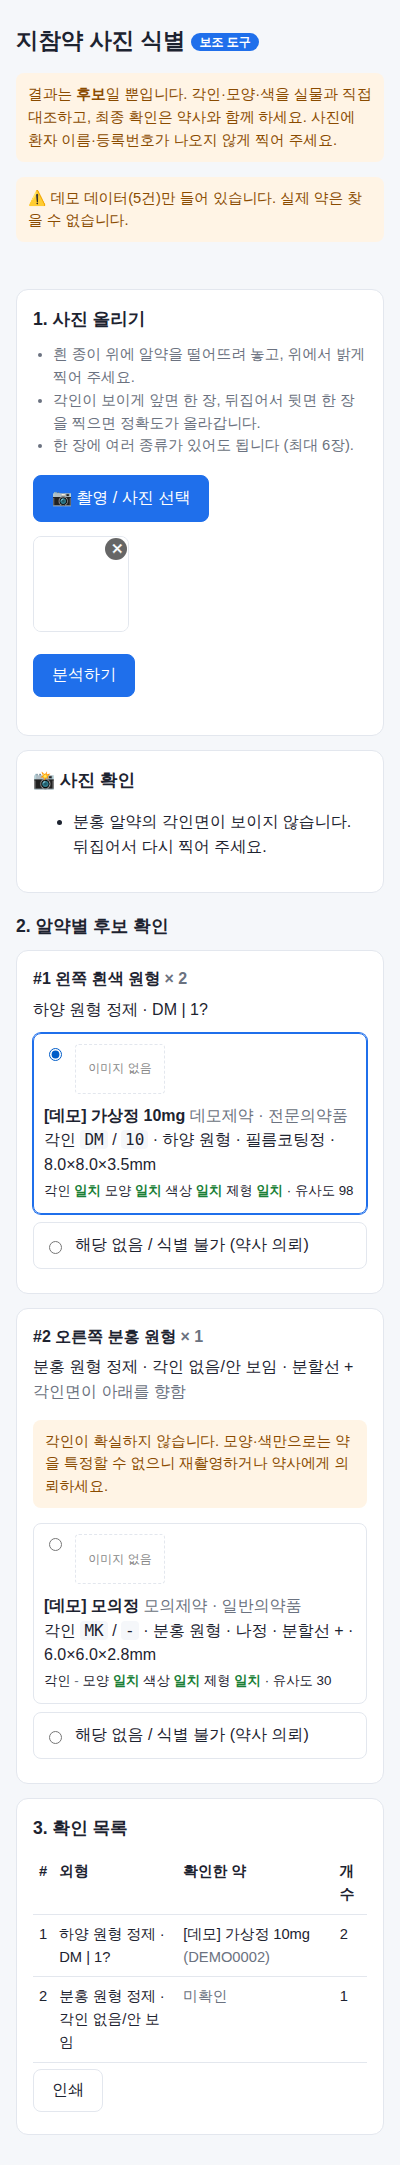
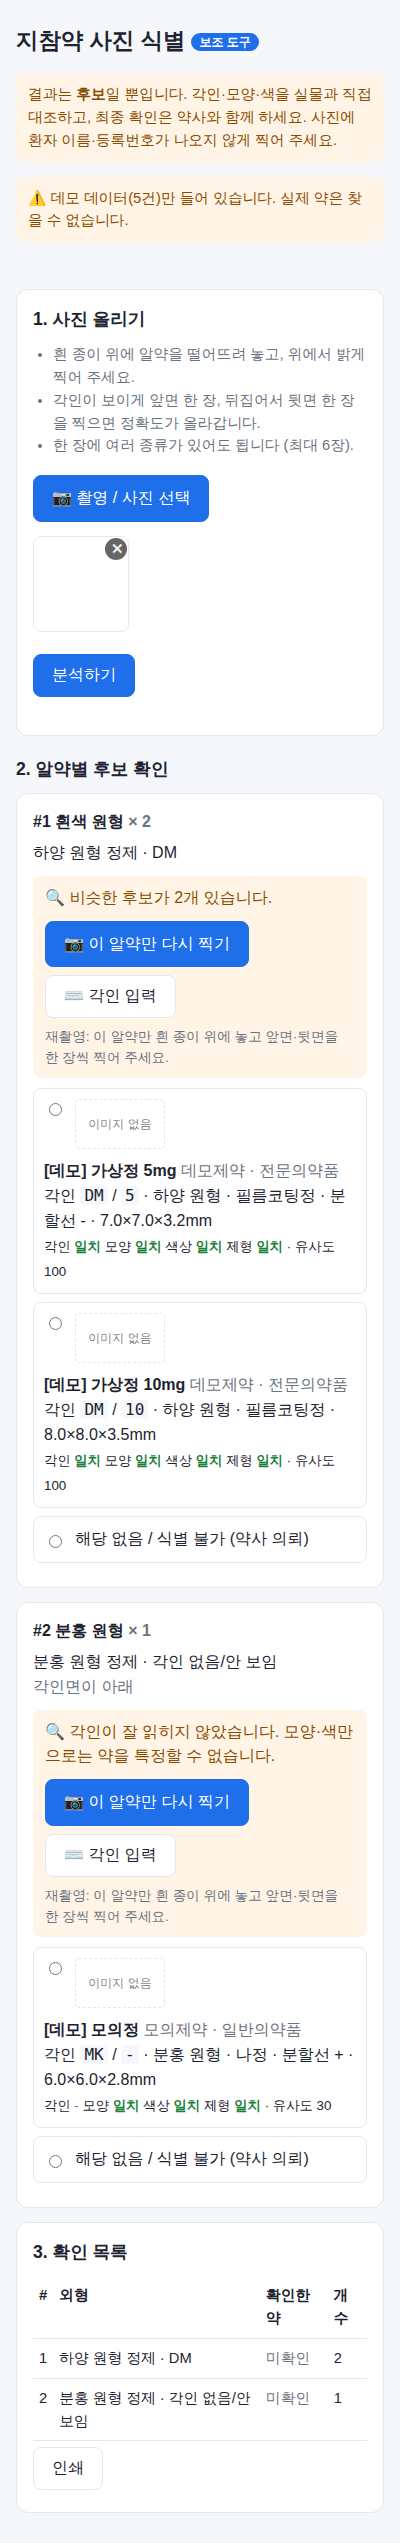
Add per-pill retake and manual imprint search when photo result is unclear
Photo analysis stays the primary flow. A pill card offers retake (re-analyzes
only that pill, all photos treated as one pill) or manual imprint entry
(local DB search, pre-filled with the photo reading) when the imprint was
unreadable, no candidate matched, several candidates score closely, or the
imprint match is partial.

Claude-Session: https://claude.ai/code/session_012expLt7n2L2Ga9dbMiT5Cc

Changed region(s): [[0.03, 0.0, 0.93, 0.9903], [0.9, 0.4642, 0.93, 0.557], [0.84, 0.8665, 0.87, 0.9284]]

diff --git a/pill-identifier/static/app.js b/pill-identifier/static/app.js
@@ -8,11 +8,13 @@ const summaryEl = document.getElementById("summary");
 
 let files = [];
 let pills = [];
+let options = { shapes: [], colors: [], forms: [] };
 
 const esc = (s) => String(s ?? "").replace(/[&<>"']/g, (c) =>
   ({ "&": "&amp;", "<": "&lt;", ">": "&gt;", '"': "&quot;", "'": "&#39;" }[c]));
 
 fetch("/api/status").then((r) => r.json()).then((s) => {
+  options = s;
   const el = document.getElementById("db-status");
   if (s.total === 0) {
     el.innerHTML = "⚠ 낱알식별 DB가 비어 있습니다. <code>scripts/sync_mfds.py</code>로 식약처 데이터를 받아 주세요.";
@@ -99,47 +101,148 @@ function render(data) {
     resultsEl.innerHTML = '<section class="card"><p>사진에서 알약을 찾지 못했습니다.</p></section>';
     return;
   }
-  resultsEl.innerHTML = '<h2 class="section-title">2. 알약별 후보 확인</h2>' + pills.map((p, i) => {
-    const lowConf = !p.imprint_front && !p.imprint_back || ["낮음", "없음"].includes(p.imprint_confidence);
-    const cands = p.candidates.map((c) => `
-      <label class="cand">
-        <input type="radio" name="pill${i}" value="${esc(c.item_seq)}">
-        ${c.item_image ? `<img src="${esc(c.item_image)}" alt="" loading="lazy">` : '<div class="noimg">이미지 없음</div>'}
-        <div>
-          <b>${esc(c.item_name)}</b> <span class="muted">${esc(c.entp_name)} · ${esc(c.etc_otc_name)}</span><br>
-          각인 <code>${esc(c.print_front) || "-"}</code> / <code>${esc(c.print_back) || "-"}</code>
-          · ${esc(c.color)} ${esc(c.drug_shape)} · ${esc(c.form_code_name)}
-          ${c.line ? `· 분할선 ${esc(c.line)}` : ""} ${c.size ? `· ${esc(c.size)}mm` : ""}<br>
-          <small>각인 ${checkBadge(c.checks["각인"])} 모양 ${checkBadge(c.checks["모양"])}
-          색상 ${checkBadge(c.checks["색상"])} 제형 ${checkBadge(c.checks["제형"])}
-          · 유사도 ${c.score}</small>
-        </div>
-      </label>`).join("");
-    return `
-      <section class="card pill">
-        <h3>#${i + 1} ${esc(p.label)} <span class="muted">× ${p.count}</span></h3>
-        <p class="features">
-          ${esc(describe(p))}
-          ${p.score_line !== "없음" && p.score_line !== "불명" ? ` · 분할선 ${esc(p.score_line)}` : ""}
-          ${p.mark_description ? ` · 마크: ${esc(p.mark_description)}` : ""}
-          ${p.package_text ? `<br>포장 인쇄: <b>${esc(p.package_text)}</b>` : ""}
-          ${p.notes ? `<br><span class="muted">${esc(p.notes)}</span>` : ""}
-        </p>
-        ${lowConf ? '<p class="warn">각인이 확실하지 않습니다. 모양·색만으로는 약을 특정할 수 없으니 재촬영하거나 약사에게 의뢰하세요.</p>' : ""}
-        ${cands || '<p class="muted">DB에서 일치하는 후보가 없습니다.</p>'}
-        <label class="cand none"><input type="radio" name="pill${i}" value="__none">해당 없음 / 식별 불가 (약사 의뢰)</label>
-      </section>`;
-  }).join("");
-
-  resultsEl.querySelectorAll("input[type=radio]").forEach((el) =>
-    el.addEventListener("change", () => {
-      const i = Number(el.name.slice(4));
-      pills[i].chosen = el.value === "__none" ? null : pills[i].candidates.find((c) => c.item_seq === el.value);
-      pills[i].decided = true;
-      renderSummary();
-    }));
+  resultsEl.innerHTML = '<h2 class="section-title">2. 알약별 후보 확인</h2>' +
+    pills.map((_, i) => `<section class="card pill" id="pill-${i}"></section>`).join("");
+  pills.forEach((_, i) => renderPill(i));
   renderSummary();
 }
+
+// 사진 판독만으로 확정하기 어려운 경우 → 재촬영/각인 입력을 권한다.
+function helpReason(p) {
+  const c = p.candidates;
+  if (p.source !== "manual" && ((!p.imprint_front && !p.imprint_back) || ["낮음", "없음"].includes(p.imprint_confidence)))
+    return "각인이 잘 읽히지 않았습니다. 모양·색만으로는 약을 특정할 수 없습니다.";
+  if (!c.length) return "일치하는 후보를 찾지 못했습니다.";
+  if (c.length >= 2 && c[1].score >= c[0].score - 10) return `비슷한 후보가 ${c.filter((x) => x.score >= c[0].score - 10).length}개 있습니다.`;
+  if (c[0].checks["각인"] === "partial") return "각인 일부가 불확실합니다.";
+  return null;
+}
+
+const opts = (list, sel) => list.map((v) => `<option${v === sel ? " selected" : ""}>${esc(v)}</option>`).join("");
+
+function renderPill(i) {
+  const p = pills[i];
+  const el = document.getElementById(`pill-${i}`);
+  const reason = helpReason(p);
+  const cands = p.candidates.map((c) => `
+    <label class="cand">
+      <input type="radio" name="pill${i}" value="${esc(c.item_seq)}"${p.chosen?.item_seq === c.item_seq ? " checked" : ""}>
+      ${c.item_image ? `<img src="${esc(c.item_image)}" alt="" loading="lazy">` : '<div class="noimg">이미지 없음</div>'}
+      <div>
+        <b>${esc(c.item_name)}</b> <span class="muted">${esc(c.entp_name)} · ${esc(c.etc_otc_name)}</span><br>
+        각인 <code>${esc(c.print_front) || "-"}</code> / <code>${esc(c.print_back) || "-"}</code>
+        · ${esc(c.color)} ${esc(c.drug_shape)} · ${esc(c.form_code_name)}
+        ${c.line ? `· 분할선 ${esc(c.line)}` : ""} ${c.size ? `· ${esc(c.size)}mm` : ""}<br>
+        <small>각인 ${checkBadge(c.checks["각인"])} 모양 ${checkBadge(c.checks["모양"])}
+        색상 ${checkBadge(c.checks["색상"])} 제형 ${checkBadge(c.checks["제형"])}
+        · 유사도 ${c.score}</small>
+      </div>
+    </label>`).join("");
+
+  el.innerHTML = `
+    <h3>#${i + 1} ${esc(p.label)} <span class="muted">× ${p.count}</span>
+      ${p.source === "manual" ? '<span class="src">각인 입력</span>' : p.source === "retake" ? '<span class="src">재촬영</span>' : ""}</h3>
+    <p class="features">
+      ${esc(describe(p))}
+      ${p.score_line && p.score_line !== "없음" && p.score_line !== "불명" ? ` · 분할선 ${esc(p.score_line)}` : ""}
+      ${p.mark_description ? ` · 마크: ${esc(p.mark_description)}` : ""}
+      ${p.package_text ? `<br>포장 인쇄: <b>${esc(p.package_text)}</b>` : ""}
+      ${p.notes ? `<br><span class="muted">${esc(p.notes)}</span>` : ""}
+    </p>
+    ${reason ? `
+      <div class="help">
+        <p>🔍 ${esc(reason)}</p>
+        <div class="help-actions">
+          <label class="btn primary">📷 이 알약만 다시 찍기
+            <input type="file" accept="image/*" capture="environment" multiple hidden data-act="retake"></label>
+          <button class="btn" data-act="manual">⌨ 각인 입력</button>
+        </div>
+        <p class="muted small">재촬영: 이 알약만 흰 종이 위에 놓고 앞면·뒷면을 한 장씩 찍어 주세요.</p>
+      </div>` : ""}
+    <p class="busy muted hidden"></p>
+    ${cands || '<p class="muted">DB에서 일치하는 후보가 없습니다.</p>'}
+    <label class="cand none"><input type="radio" name="pill${i}" value="__none"${p.decided && !p.chosen ? " checked" : ""}>해당 없음 / 식별 불가 (약사 의뢰)</label>
+    ${reason ? "" : `
+      <p class="small muted alt">결과가 실물과 다르면:
+        <label class="link">다시 찍기<input type="file" accept="image/*" capture="environment" multiple hidden data-act="retake"></label>
+        · <button class="link" data-act="manual">각인 입력</button></p>`}
+    <form class="manual hidden" data-act="search">
+      <p class="small muted">실물에서 읽은 각인을 입력하세요. 사진 판독 값이 미리 채워져 있습니다.</p>
+      <div class="grid">
+        <label>앞면 각인<input name="imprint_front" value="${esc(p.imprint_front)}" autocapitalize="characters"></label>
+        <label>뒷면 각인<input name="imprint_back" value="${esc(p.imprint_back)}" autocapitalize="characters"></label>
+        <label>모양<select name="shape">${opts(options.shapes, p.shape)}</select></label>
+        <label>색상<select name="color_primary">${opts(options.colors, p.color_primary)}</select></label>
+        <label>제형<select name="form">${opts(options.forms, p.form)}</select></label>
+      </div>
+      <button class="btn primary">검색</button>
+    </form>`;
+}
+
+function setBusy(i, text) {
+  const b = document.querySelector(`#pill-${i} .busy`);
+  b.textContent = text || "";
+  b.classList.toggle("hidden", !text);
+}
+
+resultsEl.addEventListener("change", async (e) => {
+  const card = e.target.closest(".pill");
+  if (!card) return;
+  const i = Number(card.id.slice(5));
+  if (e.target.type === "radio") {
+    pills[i].chosen = e.target.value === "__none" ? null : pills[i].candidates.find((c) => c.item_seq === e.target.value);
+    pills[i].decided = true;
+    renderSummary();
+  } else if (e.target.dataset.act === "retake" && e.target.files.length) {
+    const picked = [...e.target.files].slice(0, 4);
+    setBusy(i, "다시 분석 중… (20~60초)");
+    try {
+      const form = new FormData();
+      for (const [k, f] of picked.entries()) form.append("images", await shrink(f), `retake${k + 1}.jpg`);
+      const r = await fetch("/api/identify?single=true", { method: "POST", body: form });
+      const data = await r.json();
+      if (!r.ok) throw new Error(data.detail || `오류 ${r.status}`);
+      if (!data.pills.length) throw new Error("사진에서 알약을 찾지 못했습니다. " + data.photo_issues.join(" "));
+      pills[i] = { ...data.pills[0], label: pills[i].label, count: pills[i].count, source: "retake", chosen: null, decided: false };
+      renderPill(i);
+      renderSummary();
+      if (data.photo_issues.length) setBusy(i, "📸 " + data.photo_issues.join(" "));
+    } catch (err) {
+      setBusy(i, "⚠ " + err.message);
+    }
+  }
+});
+
+resultsEl.addEventListener("click", (e) => {
+  if (e.target.dataset.act !== "manual") return;
+  const form = e.target.closest(".pill").querySelector("form.manual");
+  form.classList.remove("hidden");
+  form.querySelector("input").focus();
+});
+
+resultsEl.addEventListener("submit", async (e) => {
+  e.preventDefault();
+  const i = Number(e.target.closest(".pill").id.slice(5));
+  const q = Object.fromEntries(new FormData(e.target));
+  if (!q.imprint_front.trim() && !q.imprint_back.trim()) {
+    setBusy(i, "각인을 한 면 이상 입력해 주세요.");
+    return;
+  }
+  setBusy(i, "검색 중…");
+  try {
+    const r = await fetch("/api/search", {
+      method: "POST", headers: { "Content-Type": "application/json" }, body: JSON.stringify(q),
+    });
+    const data = await r.json();
+    if (!r.ok) throw new Error(data.detail || `오류 ${r.status}`);
+    pills[i] = { ...pills[i], ...q, imprint_confidence: "높음", has_mark: false,
+      candidates: data.candidates, source: "manual", chosen: null, decided: false };
+    renderPill(i);
+    renderSummary();
+  } catch (err) {
+    setBusy(i, "⚠ " + err.message);
+  }
+});
 
 function renderSummary() {
   summaryEl.classList.remove("hidden");

diff --git a/pill-identifier/static/style.css b/pill-identifier/static/style.css
@@ -43,6 +43,21 @@ h3 { font-size: 1rem; margin: 0 0 6px; }
 code { background: var(--bg); padding: 0 4px; border-radius: 4px; }
 table { width: 100%; border-collapse: collapse; font-size: .92rem; }
 th, td { border-bottom: 1px solid var(--line); padding: 8px 6px; text-align: left; vertical-align: top; }
+.small { font-size: .85rem; }
+.src { font-size: .72rem; font-weight: 500; border: 1px solid var(--primary); color: var(--primary);
+  padding: 1px 6px; border-radius: 99px; margin-left: 4px; vertical-align: middle; }
+.help { background: var(--warn-bg); border-radius: 8px; padding: 10px 12px; margin-bottom: 10px; }
+.help p { margin: 0 0 6px; color: var(--warn); }
+.help p.muted { color: var(--muted); margin: 4px 0 0; }
+.help-actions .btn { margin: 4px 6px 4px 0; }
+.busy { margin: 0 0 8px; }
+.alt { margin: 6px 0 0; }
+.link { background: none; border: 0; padding: 0; color: var(--primary); cursor: pointer; font: inherit; text-decoration: underline; }
+form.manual { border-top: 1px dashed var(--line); margin-top: 10px; padding-top: 10px; }
+.grid { display: grid; grid-template-columns: repeat(auto-fill, minmax(140px, 1fr)); gap: 8px; margin-bottom: 8px; }
+.grid label { display: flex; flex-direction: column; font-size: .85rem; color: var(--muted); gap: 2px; }
+.grid input, .grid select { font-size: 1rem; padding: 8px; border: 1px solid var(--line); border-radius: 6px;
+  background: var(--card); color: var(--text); }
 @media (max-width: 520px) {
   .cand { flex-wrap: wrap; }
   .cand img, .noimg { width: 90px; height: 50px; }

diff --git a/pill-identifier/app/main.py b/pill-identifier/app/main.py
@@ -1,12 +1,13 @@
 from pathlib import Path
 
 import anthropic
-from fastapi import FastAPI, File, HTTPException, UploadFile
+from fastapi import FastAPI, File, HTTPException, Query, UploadFile
 from fastapi.responses import FileResponse
 from fastapi.staticfiles import StaticFiles
+from pydantic import BaseModel
 
 from . import pilldb
-from .vision import VisionError, extract_pill_features
+from .vision import COLORS, FORMS, SHAPES, VisionError, extract_pill_features
 
 STATIC = Path(__file__).resolve().parent.parent / "static"
 ALLOWED_TYPES = {"image/jpeg", "image/png", "image/webp", "image/gif"}
@@ -25,11 +26,27 @@ def index():
 @app.get("/api/status")
 def status():
     with pilldb.connect() as conn:
-        return pilldb.stats(conn)
+        return {**pilldb.stats(conn), "shapes": SHAPES, "colors": COLORS, "forms": FORMS}
+
+
+class ManualQuery(BaseModel):
+    imprint_front: str = ""
+    imprint_back: str = ""
+    shape: str = "불명"
+    color_primary: str = "불명"
+    color_secondary: str = "없음"
+    form: str = "불명"
+
+
+@app.post("/api/search")
+def search(q: ManualQuery):
+    """사진 판독이 애매할 때 간호사가 직접 읽은 각인으로 검색. 외부 전송 없이 로컬 DB만 쓴다."""
+    with pilldb.connect() as conn:
+        return {"candidates": pilldb.find_candidates(conn, q.model_dump())}
 
 
 @app.post("/api/identify")
-async def identify(images: list[UploadFile] = File(...)):
+async def identify(images: list[UploadFile] = File(...), single: bool = Query(False)):
     if not images or len(images) > MAX_IMAGES:
         raise HTTPException(400, f"사진은 1~{MAX_IMAGES}장까지 올릴 수 있습니다.")
     payload = []
@@ -43,7 +60,7 @@ async def identify(images: list[UploadFile] = File(...)):
     # 사진은 메모리에서만 처리하고 서버에 저장하지 않는다.
 
     try:
-        features = extract_pill_features(payload)
+        features = extract_pill_features(payload, single=single)
     except VisionError as e:
         raise HTTPException(502, str(e))
     except anthropic.RateLimitError:

diff --git a/pill-identifier/app/vision.py b/pill-identifier/app/vision.py
@@ -74,8 +74,12 @@ class VisionError(Exception):
     pass
 
 
-def extract_pill_features(images: list[tuple[bytes, str]], client: anthropic.Anthropic | None = None) -> dict:
-    """images: [(바이트, media_type)] — 같은 알약의 앞/뒷면 사진을 함께 보내도 된다."""
+def extract_pill_features(images: list[tuple[bytes, str]], single: bool = False,
+                          client: anthropic.Anthropic | None = None) -> dict:
+    """images: [(바이트, media_type)] — 같은 알약의 앞/뒷면 사진을 함께 보내도 된다.
+
+    single=True: 특정 알약 하나를 재촬영한 경우. 모든 사진을 같은 알약으로 보고 한 항목으로 합친다.
+    """
     client = client or anthropic.Anthropic()
     content = []
     for i, (data, media_type) in enumerate(images, 1):
@@ -85,7 +89,12 @@ def extract_pill_features(images: list[tuple[bytes, str]], client: anthropic.Ant
             "source": {"type": "base64", "media_type": media_type,
                        "data": base64.standard_b64encode(data).decode("ascii")},
         })
-    content.append({"type": "text", "text": "사진 속 알약들의 외형 특징을 기록해 주세요."})
+    if single:
+        content.append({"type": "text", "text": (
+            "모든 사진은 같은 한 종류의 알약을 여러 각도·면에서 다시 찍은 것입니다. "
+            "사진들을 종합해 pills에 하나의 항목만 기록하고, 앞·뒷면 각인을 모두 채워 주세요.")})
+    else:
+        content.append({"type": "text", "text": "사진 속 알약들의 외형 특징을 기록해 주세요."})
 
     response = client.beta.messages.create(
         model=MODEL,

diff --git a/pill-identifier/tests/test_pilldb.py b/pill-identifier/tests/test_pilldb.py
@@ -61,7 +61,7 @@ def test_no_imprint_falls_back_to_shape_color(conn):
 def test_identify_endpoint(conn, monkeypatch):
     fake = {"pills": [pill(imprint_front="EX", imprint_back="SR", shape="타원형", color_primary="노랑")],
             "photo_issues": []}
-    monkeypatch.setattr(main, "extract_pill_features", lambda images: fake)
+    monkeypatch.setattr(main, "extract_pill_features", lambda images, single=False: fake)
     client = TestClient(main.app)
     r = client.post("/api/identify", files=[("images", ("a.jpg", b"\xff\xd8fake", "image/jpeg"))])
     assert r.status_code == 200
@@ -74,3 +74,23 @@ def test_rejects_non_image(conn):
     client = TestClient(main.app)
     r = client.post("/api/identify", files=[("images", ("a.txt", b"hi", "text/plain"))])
     assert r.status_code == 400
+
+
+def test_manual_search_endpoint(conn):
+    client = TestClient(main.app)
+    r = client.post("/api/search", json={"imprint_front": "dm", "imprint_back": "5", "shape": "원형"})
+    assert r.status_code == 200
+    assert r.json()["candidates"][0]["item_seq"] == "DEMO0001"
+
+
+def test_retake_passes_single_flag(conn, monkeypatch):
+    seen = {}
+
+    def fake(images, single=False):
+        seen["single"] = single
+        return {"pills": [], "photo_issues": []}
+
+    monkeypatch.setattr(main, "extract_pill_features", fake)
+    client = TestClient(main.app)
+    client.post("/api/identify?single=true", files=[("images", ("a.jpg", b"x", "image/jpeg"))])
+    assert seen["single"] is True

diff --git a/pill-identifier/README.md b/pill-identifier/README.md
@@ -11,7 +11,12 @@
 1. 사진 촬영 (휴대폰 카메라 바로 사용 가능, 여러 장 가능)
 2. Claude 비전이 알약마다 **외형 특징만** 추출 — 약 이름은 추측하지 않도록 설계
 3. 추출한 각인/모양/색을 로컬 낱알식별 DB에서 검색 → 후보 목록 + 식약처 공식 이미지
-4. 간호사가 알약마다 후보를 선택하거나 "식별 불가(약사 의뢰)"로 표시 → 확인 목록 인쇄
+4. 사진 판독만으로 확정하기 어려우면 그 알약 카드에 보조 수단이 뜹니다
+   - 각인이 안 읽힘 / 후보 없음 / 비슷한 후보 여러 개 / 각인 일부 불확실
+   - **📷 이 알약만 다시 찍기**: 해당 알약의 앞·뒷면을 찍으면 그 카드만 다시 분석
+   - **⌨ 각인 입력**: 사진 판독 값이 미리 채워진 칸을 고쳐서 검색 (외부 전송 없이 로컬 DB만 사용)
+   - 결과가 명확해도 카드 아래 작은 링크로 언제든 같은 기능을 쓸 수 있습니다
+5. 간호사가 알약마다 후보를 고르거나 "식별 불가(약사 의뢰)"로 표시 → 확인 목록 인쇄
 
 AI가 약 이름을 직접 말하게 하지 않고 공공 DB 대조로만 후보를 만드는 이유는,
 모델의 기억에 의존한 약명은 검증할 수 없고 틀렸을 때 위험하기 때문입니다.
